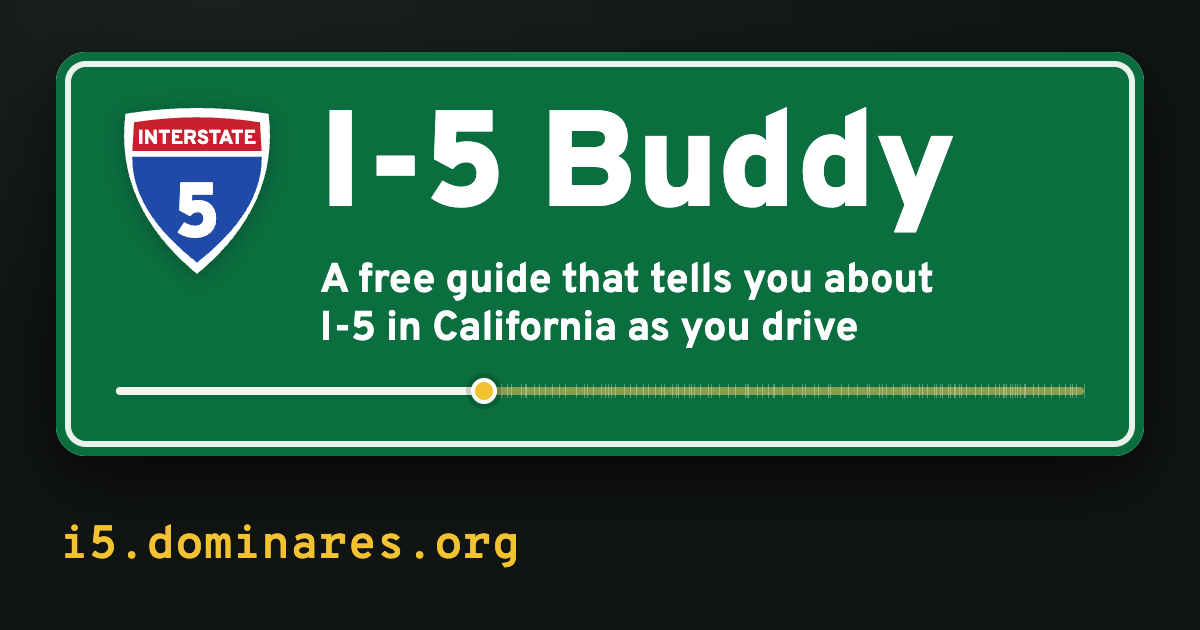
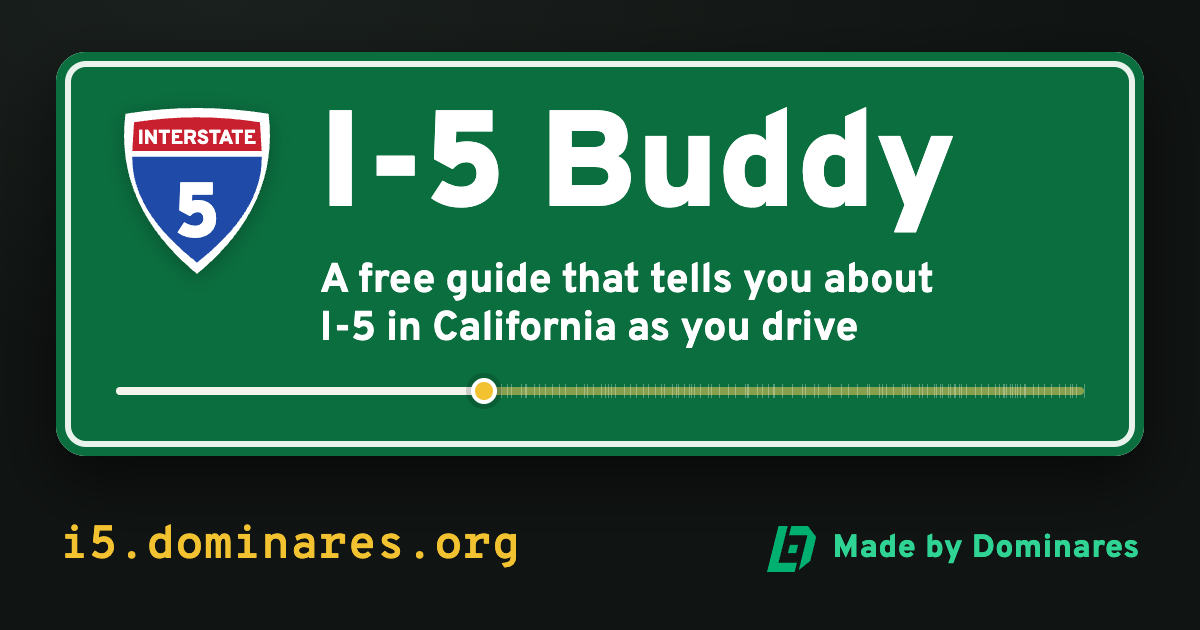
Link preview: Made by Dominares beside the address
The preview picture named Dominares only inside the address, and its
bottom right was empty, so it leaned to one side. Now the Dominares
mark and "Made by Dominares" sit at the bottom right, in the same
emerald and green as the app's About card and welcome byline, level
with i5.dominares.org. Still readable at a 300 px thumbnail.

Re-rendered with python3 tools/og_image.py (two renders are the same
byte for byte); og:image:alt and twitter:image:alt say it too. VERSION
in sw.js stays 2.4.0, which is not released yet.

Changed region(s): [[0.6167, 0.8143, 0.9558, 0.9048]]

diff --git a/tools/og-image.html b/tools/og-image.html
@@ -5,12 +5,13 @@
 <title>I-5 Buddy link preview (1200x630)</title>
 <!--
   The link-preview picture (og:image, twitter:image): icons/og-1200x630.png.
-  Drawn with the app's own night tokens and Overpass font (../app.css), the Interstate shield and the green sign board.
+  Drawn with the app's own night tokens and Overpass font (../app.css), the Interstate shield and the green sign board,
+  with Made by Dominares and its mark (as in the app's About card) beside the address.
   No photos. The ribbon has a tick for every other landmark ahead of the dot, read from ../data/i5.js.
 
   To re-render after a change:  python3 tools/og_image.py   (headless Chrome; writes icons/og-1200x630.png at
   exactly 1200x630), then bump VERSION in sw.js. To look at it, serve the repo root and open /tools/og-image.html.
-  Keep the shield below in step with the #shield symbol in index.html.
+  Keep the shield and the Dominares mark below in step with index.html (the #shield symbol, the About card's mark).
 -->
 <link rel="stylesheet" href="../app.css">
 <style>
@@ -35,6 +36,9 @@
   .og-ribbon .you{position:absolute;top:2px;left:38%;width:26px;height:26px;margin-left:-13px;border-radius:50%;background:var(--accent);border:4px solid #fff;box-shadow:0 0 0 5px rgba(0,0,0,.15)}
   /* the address, in the app's link yellow */
   .og-url{position:absolute;left:60px;bottom:60px;margin:0;font-family:var(--mono);font-weight:700;font-size:46px;line-height:1;color:var(--accent);letter-spacing:.01em}
+  /* the parent brand, as in the app's About card: the Dominares mark in emerald, the words in the byline's green */
+  .og-by{position:absolute;right:60px;bottom:58px;margin:0;display:flex;align-items:center;gap:14px;font-weight:800;font-size:32px;line-height:1;color:var(--dom);letter-spacing:.02em}
+  .og-by svg{width:52px;height:46px;flex:none;color:var(--dom-mark)}
 </style>
 </head>
 <body>
@@ -55,6 +59,7 @@
   </div>
 </div>
 <p class="og-url">i5.dominares.org</p>
+<p class="og-by"><svg viewBox="0 0 113 100" aria-hidden="true"><g transform="translate(24.93 0) skewX(-14)" fill="currentColor"><path d="M0 0H20V80H60V100H0Z"/><path d="M28 0H64L88 24V76L68 96V20H28Z"/><path d="M35 41H53V59H35Z"/></g></svg>Made by Dominares</p>
 <script src="../data/i5.js"></script>
 <script>
   // a tick for the landmarks still ahead of the dot, like the app's ribbon (every other one: at this size all 375

diff --git a/index.html b/index.html
@@ -22,10 +22,10 @@
 <meta property="og:image:type" content="image/png">
 <meta property="og:image:width" content="1200">
 <meta property="og:image:height" content="630">
-<meta property="og:image:alt" content="A green highway sign with the Interstate 5 shield: I-5 Buddy, a free guide that tells you about I-5 in California as you drive. i5.dominares.org">
+<meta property="og:image:alt" content="A green highway sign with the Interstate 5 shield: I-5 Buddy, a free guide that tells you about I-5 in California as you drive. i5.dominares.org, made by Dominares.">
 <meta name="twitter:card" content="summary_large_image">
 <meta name="twitter:image" content="https://i5.dominares.org/icons/og-1200x630.png">
-<meta name="twitter:image:alt" content="A green highway sign with the Interstate 5 shield: I-5 Buddy, a free guide that tells you about I-5 in California as you drive. i5.dominares.org">
+<meta name="twitter:image:alt" content="A green highway sign with the Interstate 5 shield: I-5 Buddy, a free guide that tells you about I-5 in California as you drive. i5.dominares.org, made by Dominares.">
 <script type="application/ld+json">{"@context":"https://schema.org","@type":"WebApplication","name":"I-5 Buddy","url":"https://i5.dominares.org/","applicationCategory":"TravelApplication","operatingSystem":"Any (web app for iPhone, Android and desktop)","offers":{"@type":"Offer","price":"0","priceCurrency":"USD"},"description":"A free narrated road-trip guide to all of Interstate 5 in California. It follows you by GPS and tells you about the orchards, history and landmarks you pass.","image":"https://i5.dominares.org/icons/icon-512.png","publisher":{"@type":"Organization","name":"Dominares","url":"https://dominares.org/"},"author":{"@type":"Organization","name":"Dominares","url":"https://dominares.org/"}}</script>
 <script>/* I-5 Buddy moved from sugplu.github.io to i5.dominares.org (2026-11-12). Send browsers there; installed copies get a notice instead. */
 (function(){var h=location.hostname;if(!/github\.io$/.test(h))return;var to="https://i5.dominares.org"+location.pathname.replace(/^\/i5-buddy/,"")+location.search+location.hash;var installed=(window.matchMedia&&matchMedia("(display-mode: standalone)").matches)||navigator.standalone;if(!installed){location.replace(to);return}window.__i5Moved=to})();</script>
